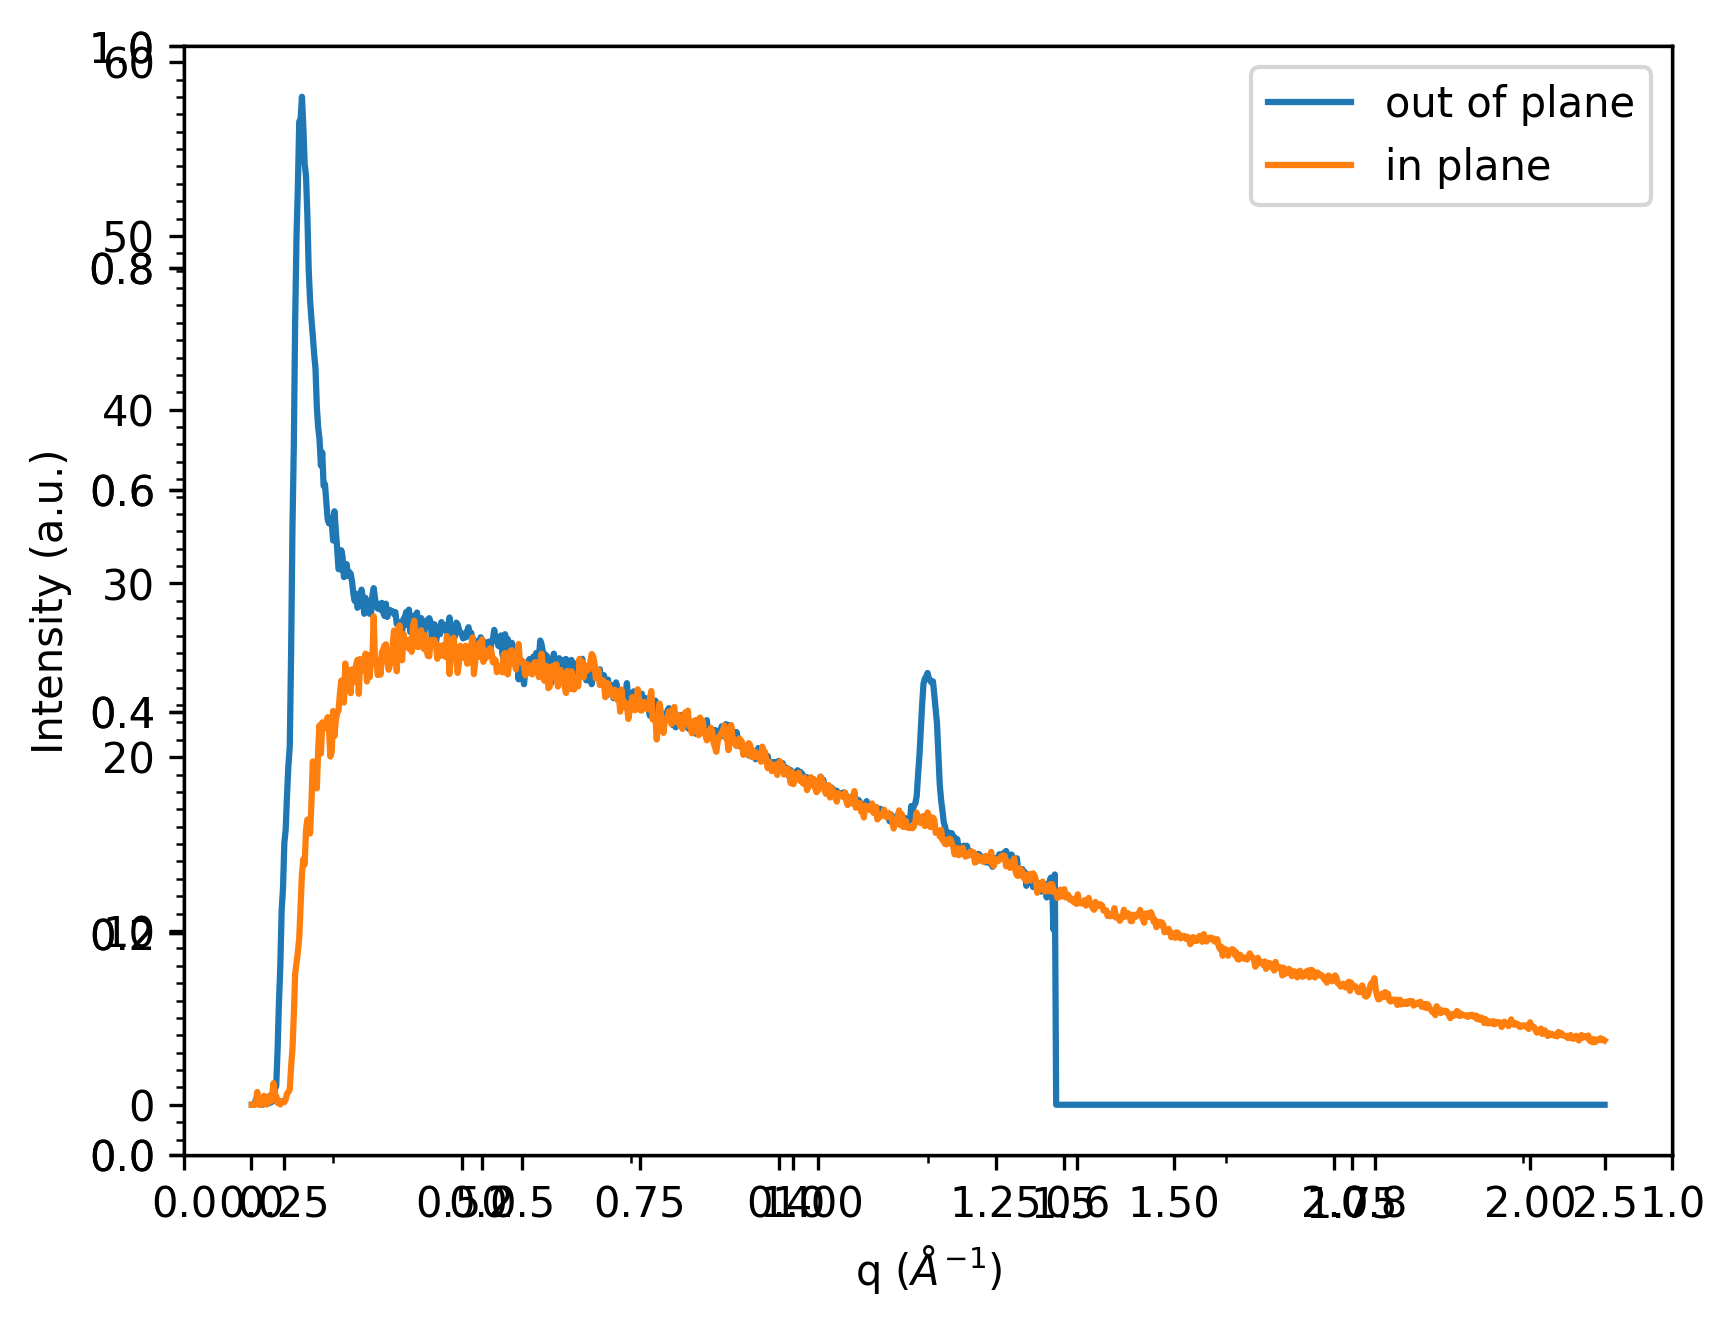
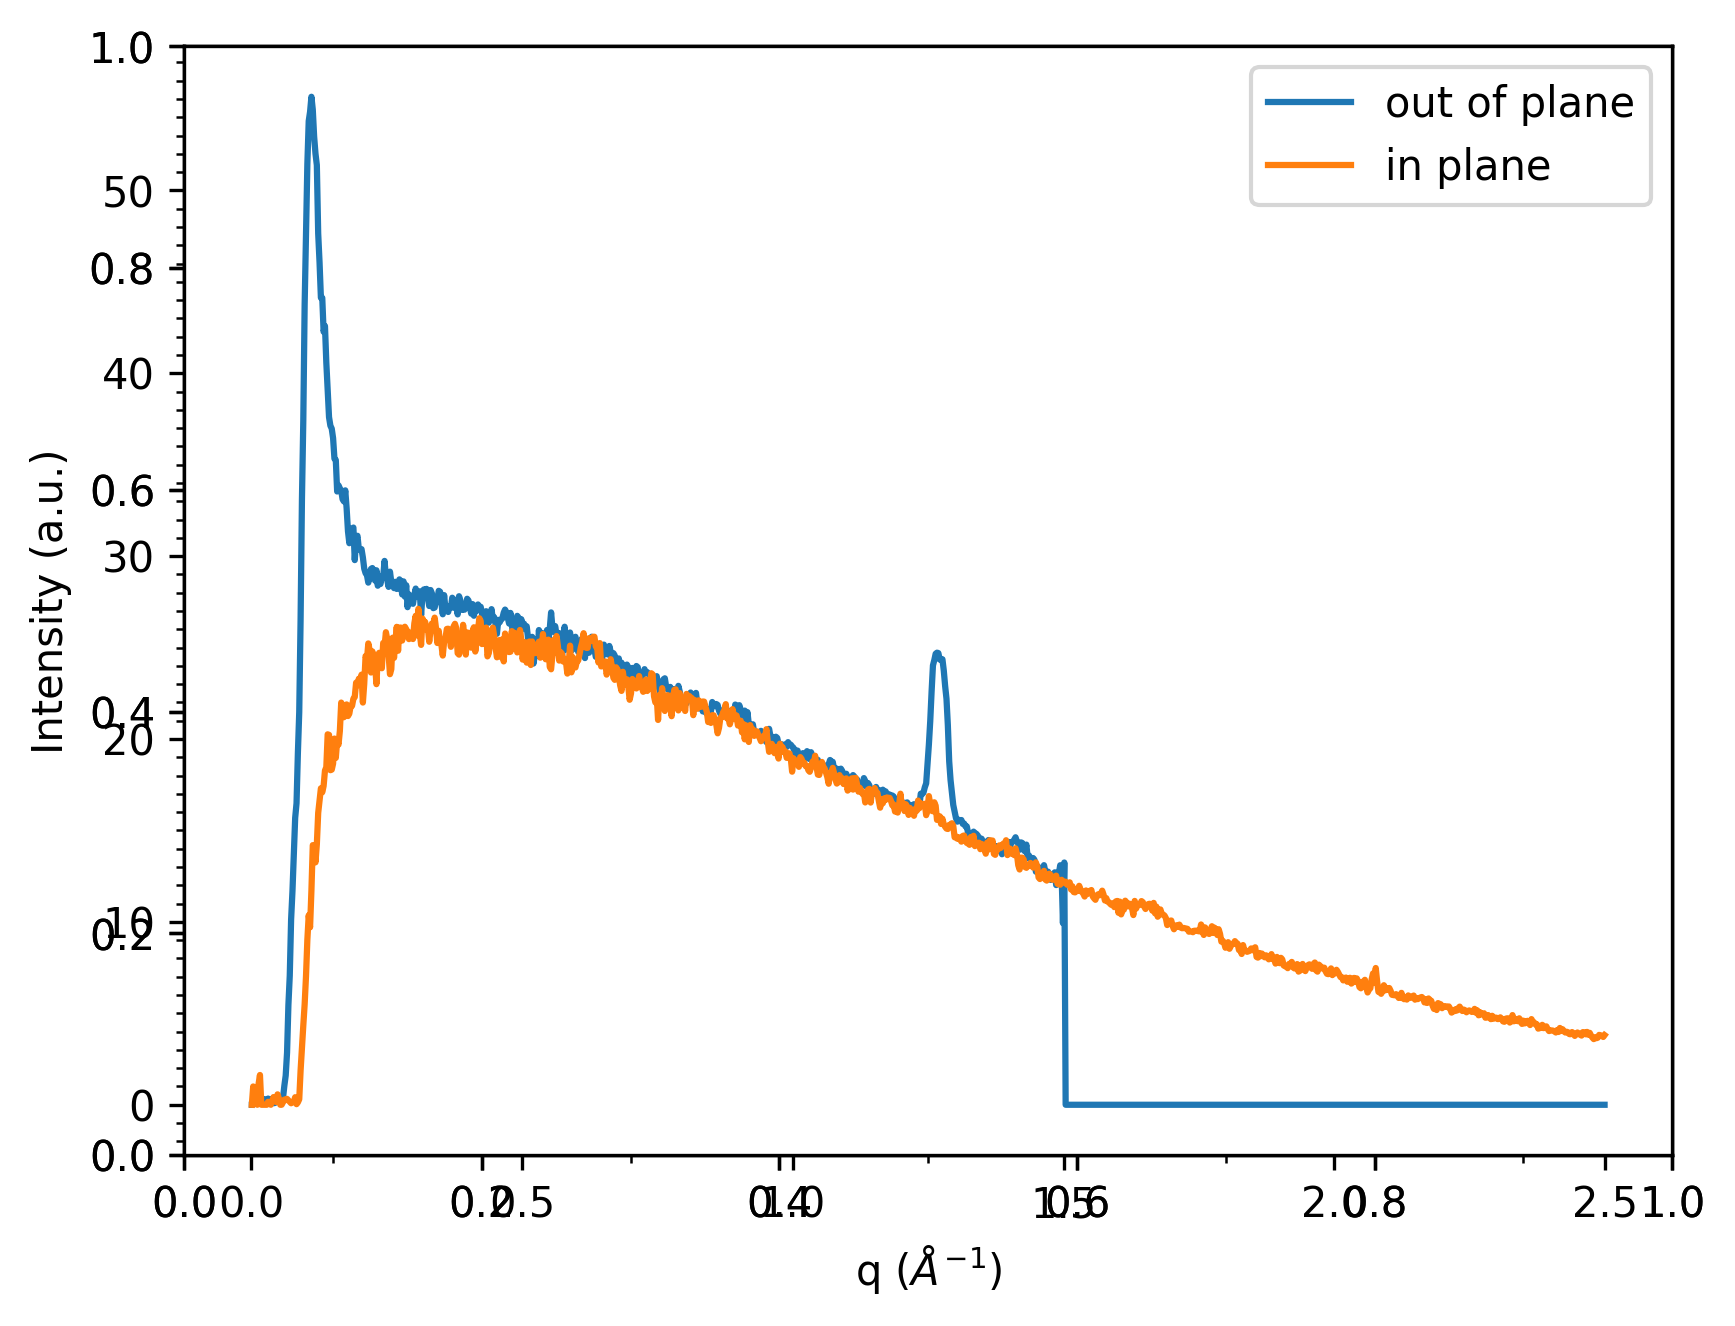
some tidying

diff --git a/GIWAXS_analyzer.py b/GIWAXS_analyzer.py
@@ -23,58 +23,17 @@ def main():
     pg = load_calibration()
     data = load_data()
 
-    # line cuts and Plotting
-    #plt.rcParams.update({'mathtext.default':  'regular'})
-    #plt.rcParams['font.family'] = "sans-serif"
-    #plt.rcParams['font.sans-serif'] = "Arial"
-    #plt.rcParams['text.usetex'] = False
-
     """this produces the line cuts using pygix"""
     # Out of plane
     i_oop, q = pg.profile_sector(data, npt=1000, chi_pos=0, chi_width=30,
                                  radial_range=(0, 2.5), unit='q_A^-1', correctSolidAngle=False, method="bbox")
     # In plane
-    i_ip, q = pg.profile_sector(data, npt=1000, chi_pos=78, chi_width=10,
+    i_ip, _ = pg.profile_sector(data, npt=1000, chi_pos=78, chi_width=10,
                                 radial_range=(0, 2.5), unit='q_A^-1', correctSolidAngle=False, method="bbox")
 
     # dezingering?????
 
-    fig = plt.figure()
-    plt.xlabel('q ($\AA^{-1}$)')
-    plt.ylabel('Intensity (a.u.)')
-    # ###adjust xlim
-    plt.xlim((0.11, 2.2))
-    # plt.ylim((10,50))
-    plt.axes().xaxis.set_minor_locator(MultipleLocator(0.1))
-    plt.axes().yaxis.set_minor_locator(MultipleLocator(1))
-    plt.plot(q, i_oop, label="out of plane")
-    plt.plot(q, i_ip, label="in plane")
-    plt.legend()
-    ending = 'lin_1D.png'
-    filename1D = 'processed_data' + os.sep + 'filename' + ending
-    savefig(filename1D, bbox_inches='tight', dpi=300)
-
-    # log plots
-    font2 = {'family': 'Arial', 'color': 'black', 'weight': 'bold', 'size': 20}
-    fig = plt.figure()
-    plt.xlabel('q ($\AA^{-1}$)')
-    plt.ylabel('$log_{10}$ Intensity (a.u.)')
-    plt.yscale('log')
-    # plt.yticks(np.arange(1, 3, 5))
-    # ###adjust ylim
-    # plt.ylim((1.2, 3.5))
-    plt.xlim((0.1, 2.2))
-    # plt.xticks(np.arange(0.175, 2.175, 0.2))
-    plt.axes().xaxis.set_minor_locator(MultipleLocator(0.1))
-    log_i_oop = np.log10(i_oop)
-    log_i_ip = np.log10(i_ip)
-    plt.plot(q, log_i_oop, label="out of plane")
-    plt.plot(q, log_i_ip, label="in plane")
-    plt.legend()
-
-    ending = 'log_1D.png'
-    filename1D = 'processed_data' + os.sep + 'filename' + ending
-    savefig(filename1D, bbox_inches='tight', dpi=300)
+    plot_line_cuts(q, i_oop, i_ip)
 
     # font1 = {'color':  'black','size': 25}
     font1 = {'family': 'Arial', 'color': 'black', 'weight': 'bold', 'size': 30}
@@ -82,14 +41,14 @@ def main():
     i[i == 0] = np.nan
 
     # close('all')
-    fig = pylab.figure(figsize=(6, 6));
-    gs = gridspec.GridSpec(1, 1);
+    fig = pylab.figure(figsize=(6, 6))
+    gs = gridspec.GridSpec(1, 1)
     ax1 = plt.subplot(gs[0, 0])
     for ax in fig.get_axes():
-        ax.tick_params(which='both', color='k', labelsize=20);
-        ax.set_facecolor('k');
-        ax1.yaxis.set_ticks_position('both');
-        ax1.xaxis.set_ticks_position('both');
+        ax.tick_params(which='both', color='k', labelsize=20)
+        ax.set_facecolor('k')
+        ax1.yaxis.set_ticks_position('both')
+        ax1.xaxis.set_ticks_position('both')
         # play with norm to get color scale right
         norm = mpl.colors.Normalize(vmin=0, vmax=200)
     # norm = mpl.colors.SymLogNorm(linthresh=0.1, vmin=np.min(i), vmax=np.max(i))
@@ -100,10 +59,10 @@ def main():
     #           , vmax=7.0, vmin=3.0, cmap='jet', origin='lower')
     pylab.ylim([-0.1, 2.5])
     pylab.xlim([-2, 2])
-    ax1.xaxis.set_tick_params(width=1.5, length=5);
-    ax1.yaxis.set_tick_params(width=1.5, length=5);
-    ax1.set_xlabel('$q_{xy}$ ($\AA^{-1}$)', fontsize=16);
-    ax1.set_ylabel('$q_{z}$ ($\AA^{-1}$)', fontsize=16);
+    ax1.xaxis.set_tick_params(width=1.5, length=5)
+    ax1.yaxis.set_tick_params(width=1.5, length=5)
+    ax1.set_xlabel('$q_{xy}$ ($\AA^{-1}$)', fontsize=16)
+    ax1.set_ylabel('$q_{z}$ ($\AA^{-1}$)', fontsize=16)
     # norm = mpl.colors.Normalize(vmin=0,vmax=10) # colorbar range
     # sm = plt.cm.ScalarMappable(cmap='turbo',norm=norm)
     # sm.set_array([])
@@ -128,6 +87,44 @@ def main():
         writer.writerow(["Q (1/A)", "Intensity in plane (a.u.)", "Intensity out of plane (a.u.)"])
         for values in zip_longest(*l):
             writer.writerow(values)'''
+
+def plot_line_cuts(q, i_oop, i_ip):
+    fig = plt.figure()
+    plt.xlabel('q ($\AA^{-1}$)')
+    plt.ylabel('Intensity (a.u.)')
+    # ###adjust xlim
+    # plt.xlim((0.11, 2.2))
+    # plt.ylim((10,50))
+    plt.axes().xaxis.set_minor_locator(MultipleLocator(0.1))
+    plt.axes().yaxis.set_minor_locator(MultipleLocator(1))
+    plt.plot(q, i_oop, label="out of plane")
+    plt.plot(q, i_ip, label="in plane")
+    plt.legend()
+    ending = 'lin_1D.png'
+    filename1D = 'processed_data' + os.sep + 'filename' + ending
+    savefig(filename1D, bbox_inches='tight', dpi=300)
+
+    # log plots
+    font2 = {'family': 'Arial', 'color': 'black', 'weight': 'bold', 'size': 20}
+    fig = plt.figure()
+    plt.xlabel('q ($\AA^{-1}$)')
+    plt.ylabel('$log_{10}$ Intensity (a.u.)')
+    plt.yscale('log')
+    # plt.yticks(np.arange(1, 3, 5))
+    # ###adjust ylim
+    # plt.ylim((1.2, 3.5))
+    plt.xlim((0.1, 2.2))
+    # plt.xticks(np.arange(0.175, 2.175, 0.2))
+    # plt.axes().xaxis.set_minor_locator(MultipleLocator(0.1))
+    log_i_oop = np.log10(i_oop)
+    log_i_ip = np.log10(i_ip)
+    plt.plot(q, log_i_oop, label="out of plane")
+    plt.plot(q, log_i_ip, label="in plane")
+    plt.legend()
+
+    ending = 'log_1D.png'
+    filename1D = 'processed_data' + os.sep + 'filename' + ending
+    savefig(filename1D, bbox_inches='tight', dpi=300)
 
 
 def load_calibration():
